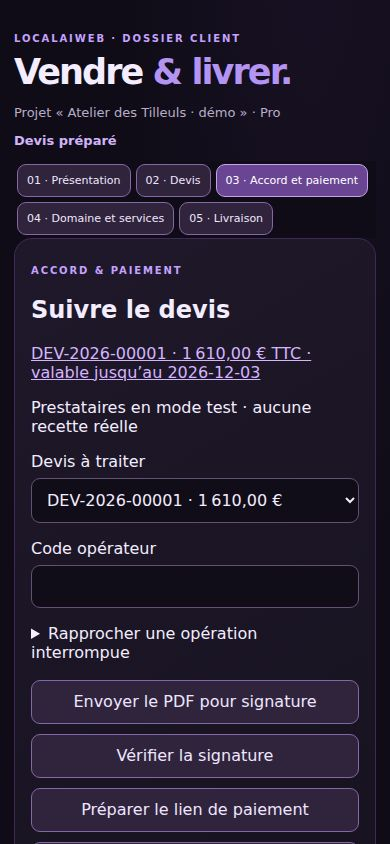
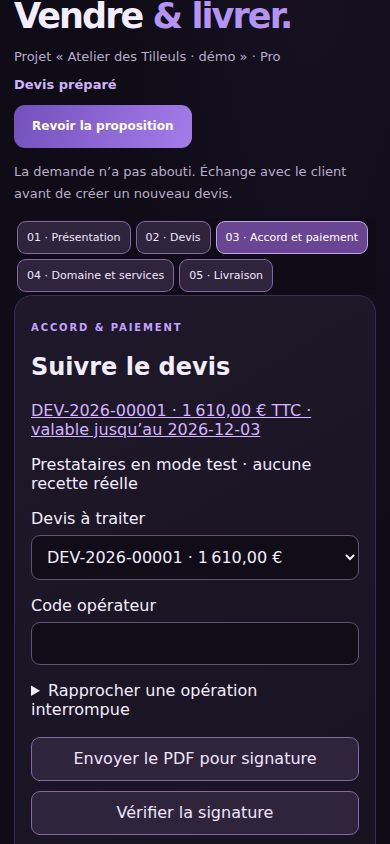
Guide the next sales step and recover interrupted pricing reads without retrying writes
Add browser tests for GET recovery, non-repeated signature sends, guided navigation and additional Studio screens. Fit public LoRA controls on mobile, preserving the isolated workspace. Run the expanded UI checks in Windows Edge.

diff --git a/local_app/web/localaiweb-sales.html b/local_app/web/localaiweb-sales.html
@@ -11,7 +11,7 @@
 </header>
 <main class="layout">
  <div class="intro"><p class="eyebrow">LOCALAIWEB · DOSSIER CLIENT</p><h1>Vendre <em>& livrer.</em></h1><p id="projectLabel">Chargement du projet…</p>
- <p id="overallStage" aria-live="polite"></p></div>
+ <p id="overallStage" aria-live="polite"></p><a id="nextSalesStep" class="primary" href="#presentation">Préparer la présentation</a><p id="nextSalesHint" class="hint"></p></div>
  <nav class="sales-steps" aria-label="Étapes du dossier"><a href="#presentation">01 · Présentation</a><a href="#quoteTitle">02 · Devis</a><a href="#agreement">03 · Accord et paiement</a><a href="#domainTitle">04 · Domaine et services</a><a href="#handover">05 · Livraison</a></nav>
  <section data-step="presentation" class="sales-desk card" aria-labelledby="deskTitle">
  <p class="eyebrow">DOSSIER DE VENTE</p><h2 id="deskTitle">Présenter la maquette privée</h2>
@@ -36,7 +36,7 @@
  <section data-step="quoteTitle" id="quoteTitle" class="card quote"><div class="heading"><div><p class="eyebrow">01 / VALORISATION</p><h2>Proposition commerciale</h2></div><label>Remise (%) <input id="discountPct" type="number" min="0" max="99" step="1" value="30"></label></div>
  <p class="hint">L’estimation provient des fichiers de ce projet. Ajuste la remise, le périmètre et les frais récurrents avant de proposer un prix. Décoche les prestations non livrées avant d’émettre une facture.</p>
  <div id="lineItems" role="group" aria-label="Prestations détectées"></div><div class="quote-total"><span>Total estimé HT</span><strong id="estimatedTotal">—</strong></div>
- <div class="fields"><label>Périmètre du devis<input id="scope" maxlength="900" placeholder="Pages, contenu, révisions et droits convenus"></label><label>Coûts récurrents et exclusions<input id="recurring" maxlength="600" placeholder="Hébergement, domaine, maintenance : montants et fréquences à confirmer"></label></div><label>Coût interne total estimé HT (€)<input type="number" min="0" step=".01" id="costHT"></label><button id="saveBudget" type="button">Enregistrer le coût interne</button><p id="margin" class="hint"></p><p id="quoteNotice" class="hint"></p><div class="ref-links"><span>Références tarifaires indicatives :</span><a href="https://onweb24.com/fr/guide/prix-site-internet" target="_blank" rel="noopener">Comparatif 2026 ↗</a><a href="https://dgtl.fr/tarif-creation-site-internet-professionnel/" target="_blank" rel="noopener">Grille tarifs ↗</a></div></section>
+ <div class="fields"><label>Périmètre du devis<input id="scope" maxlength="900" placeholder="Pages, contenu, révisions et droits convenus"></label><label>Coûts récurrents et exclusions<input id="recurring" maxlength="600" placeholder="Hébergement, domaine, maintenance : montants et fréquences à confirmer"></label></div><label>Coût interne total estimé HT (€)<input type="number" min="0" step=".01" id="costHT"></label><button id="saveBudget" type="button">Enregistrer le coût interne</button><p id="margin" class="hint"></p><p id="quoteNotice" class="hint"></p><button id="reloadEstimate" type="button">Recharger le chiffrage</button><div class="ref-links"><span>Références tarifaires indicatives :</span><a href="https://onweb24.com/fr/guide/prix-site-internet" target="_blank" rel="noopener">Comparatif 2026 ↗</a><a href="https://dgtl.fr/tarif-creation-site-internet-professionnel/" target="_blank" rel="noopener">Grille tarifs ↗</a></div></section>
  <section data-step="quoteTitle" class="card identity"><div class="heading"><div><p class="eyebrow">02 / FACTURATION</p><h2>Identités et documents</h2></div><span class="label">PDF</span></div>
  <p class="hint">Le projet génère automatiquement un chiffrage. Une facture définitive numérotée ne peut être émise qu'après validation de l'identité du client, de ton statut juridique, de la TVA et de la prestation. Une facture émise est conservée. En 2026, le PDF ne remplace pas la facturation électronique structurée lorsque celle-ci est légalement exigée ; utilise une plateforme agréée si nécessaire.</p>
  <form id="invoiceForm">
@@ -56,7 +56,7 @@
  <label>Courriel client<input id="customerEmail" type="email" placeholder="facultatif"></label>
  <label>Date réelle de prestation<input id="serviceDate" type="date" required></label><label>Délai de paiement (jours)<input id="dueDays" type="number" min="0" max="120" value="30" required></label></div>
  <label>Facturer un devis existant<select id="invoiceQuote"><option value="">Sans devis associé</option></select></label><label class="approval"><input type="checkbox" id="invoiceApproval" required><span>Je certifie que les coordonnées, le régime de TVA, les prix et la livraison des prestations sont exacts. J’autorise l’émission d’une facture définitive numérotée.</span></label>
- <div class="quote-actions"><p class="hint">Un devis peut être établi avant livraison. Il devra être accepté par le client ; il ne crée ni commande ni facture.</p><label for="quoteValidDays">Validité du devis (jours)</label><input type="number" id="quoteValidDays" min="1" max="90" value="30"><button id="issueQuote" class="primary secondary" type="button">Créer le devis PDF ↗</button><div id="quoteFeedback" class="feedback" role="status" aria-live="polite"></div></div>
+ <div class="quote-actions"><p class="hint">Un devis peut être établi avant livraison. Il devra être accepté par le client ; il ne crée ni commande ni facture.</p><label for="quoteValidDays">Validité du devis (jours)</label><input type="number" id="quoteValidDays" min="1" max="90" value="30"><button id="issueQuote" class="primary secondary" type="button" disabled>Créer le devis PDF ↗</button><div id="quoteFeedback" class="feedback" role="status" aria-live="polite"></div></div>
  <button id="issueInvoice" class="primary" type="submit">Émettre la facture PDF FORMA ↗</button>
  <div id="invoiceFeedback" class="feedback" role="status" aria-live="polite"></div></form>
  </section>

diff --git a/local_app/web/localaiweb-sales.js b/local_app/web/localaiweb-sales.js
@@ -14,9 +14,17 @@
  const selected=new Map();
  let estimate=null;
  async function api(url,body){
-  const resp=await fetch(url,body===undefined?{cache:'no-store'}:{
+  const options=body===undefined?{cache:'no-store'}:{
     method:'POST',headers:{'Content-Type':'application/json','X-LocalAI-Sales':'1'},
-    body:JSON.stringify(body)});
+    body:JSON.stringify(body)};
+  let resp;
+  try{resp=await fetch(url,options)}catch(error){
+    // Retry only a read interrupted before any HTTP response. Financial and
+    // other POST operations must always be reconciled, never blindly repeated.
+    if(body!==undefined)throw error;
+    await new Promise(resolve=>setTimeout(resolve,200));
+    resp=await fetch(url,options);
+  }
   let result={};try{result=await resp.json()}catch{}
   if(!resp.ok||result.error)throw Error(result.error||'HTTP '+resp.status);
   return result;
@@ -54,11 +62,13 @@
    update();
  };
  async function load(){
+  $('issueQuote').disabled=true;$('reloadEstimate').disabled=true;
   try{
    const [data,project]=await Promise.all([
      api('/api/web/sales/estimate?id='+encodeURIComponent(projectId)),
      api('/api/web/project?id='+encodeURIComponent(projectId))]);
    estimate=data;
+   selected.clear();
    const meta=project.project||{};
    $('projectLabel').textContent='Projet « '+(meta.name||'Sans nom')+' » · '+(meta.project_kind==='pro'?'Pro':'Libre');
    const business=meta.business||{};
@@ -74,10 +84,16 @@
    }
    update();
    $('quoteNotice').textContent=data.notice;
+   $('reloadEstimate').hidden=true;
   }catch(err){
    $('projectLabel').textContent='Impossible de charger le projet : '+err.message;
+   $('quoteNotice').textContent='Le chiffrage n’est pas chargé. Utilise « Recharger le chiffrage » pour reprendre sans modifier le dossier.';
+   $('reloadEstimate').hidden=false;
+  }finally{
+   $('issueQuote').disabled=!estimate||!selected.size;$('reloadEstimate').disabled=false;
   }
  }
+ $('reloadEstimate').onclick=()=>load();
  function showStep(){
    const links=[...document.querySelectorAll('.sales-steps a')];
    const active=links.find(a=>a.hash===location.hash)||links[0];
@@ -96,6 +112,20 @@
  function renderDesk(data){
    desk=data;$('salesState').textContent=titles[data.stage]||({accepted:'Accord vérifié',payment_pending:'Paiement en attente',paid:'Règlement vérifié',published:'Publication enregistrée',handover_complete:'Remise vérifiée',domain_pending:'Commande de domaine en cours',domain_completed:'Domaine enregistré'}[data.stage]||data.stage);
    $('overallStage').textContent=$('salesState').textContent;
+   const proposal=data.quotes.at(-1);
+   const signature=(data.signatures||[]).find(s=>s.quote===proposal?.number);
+   const payment=data.orders.find(o=>o.quote===proposal?.number);
+   let next=['#presentation','Préparer la présentation','Commence par les pages de la maquette et les informations vérifiées du prospect.'];
+   if(data.stage==='presentation_ready')next=['#presentation','Préparer l’appel','Vérifie le numéro professionnel puis présente la maquette.'];
+   if(data.stage==='contacted')next=['#quoteTitle','Préparer le devis','Retiens avec le client le périmètre et les coûts récurrents.'];
+   if(proposal)next=['#agreement','Faire accepter le devis','Vérifie le PDF et le destinataire avant tout envoi.'];
+   if(signature?.state==='pending'||signature?.state==='sent')next=['#agreement','Suivre la signature','Consulte le prestataire pour actualiser la demande.'];
+   if(['declined','expired','quote_expired'].includes(signature?.state))next=['#quoteTitle','Revoir la proposition','La demande n’a pas abouti. Échange avec le client avant de créer un nouveau devis.'];
+   if(payment)next=['#agreement','Suivre le règlement','Seule la confirmation du prestataire valide le paiement.'];
+   if(payment?.payment==='paid')next=['#domainTitle','Préparer le domaine et les services','Vérifie la titularité, les coûts et les besoins réels du site avant toute activation.'];
+   if(data.stage==='published')next=['#handover','Vérifier et livrer le site','Contrôle le domaine, HTTPS et les fonctions métier avant la remise.'];
+   if(data.stage==='handover_complete')next=['#handover','Consulter la livraison','Le dossier conserve la preuve de remise et les documents.'];
+   $('nextSalesStep').href=next[0];$('nextSalesStep').textContent=next[1];$('nextSalesHint').textContent=next[2];
    $('costHT').value=data.cost_ht??'';update();
    if(data.client_id)$('clientRecord').href=studioOrigin+'/localaiweb/clients?client='+encodeURIComponent(data.client_id);
    if(data.delivery)$('releaseStatus').textContent='Remise vérifiée : '+data.delivery.url;

diff --git a/local_app/web/studio-natural-vision.css b/local_app/web/studio-natural-vision.css
@@ -14,3 +14,14 @@ body.is-landing .welcome{padding-top:clamp(45px,10vh,110px)}
 .studio-navigation #studioAdOpen.active{background:#214747;border-color:#4b9e98}
 #creationModeGuide{font-size:11px}
 @media(max-width:700px){.welcome-visual p{font-size:12px;padding:0 13px}.welcome-visual h1{font-size:34px}}
+/* Public settings must fit their scrollable dialog, including native inputs. */
+body:not(.nsfw-active) #generationSettings .settings-accordions{grid-template-columns:minmax(0,1fr)}
+body:not(.nsfw-active) #generationSettings :is(.settings-accordion,.settings-accordion-body,.lora-panel){min-width:0;max-width:100%}
+body:not(.nsfw-active) #generationSettings :is(input,select,textarea,.lora-upload){min-width:0;max-width:100%;box-sizing:border-box}
+@media(max-width:700px){
+ body:not(.nsfw-active) #generationSettings .settings-grid{grid-template-columns:repeat(2,minmax(0,1fr))}
+ body:not(.nsfw-active) #generationSettings .settings-head>div{min-width:0;overflow-wrap:anywhere}
+ body:not(.nsfw-active) #generationSettings .lora-head{flex-wrap:wrap}
+ body:not(.nsfw-active) #generationSettings .lora-head>div{flex:1 1 180px;min-width:0}
+ body:not(.nsfw-active) #generationSettings .lora-upload{white-space:normal;overflow-wrap:anywhere}
+}

diff --git a/local_app/web/localaiweb-sales.css b/local_app/web/localaiweb-sales.css
@@ -21,4 +21,5 @@
 #signatureHistory details{padding:12px 0;border-top:1px solid #635174}
 #signatureHistory summary{cursor:pointer;overflow-wrap:anywhere}
 #signatureHistory p{color:var(--muted);font-size:.9em}
+.intro .primary{display:inline-flex;align-items:center;min-height:44px;text-decoration:none}
 @media(max-width:720px){.sales-links>button{flex:1 1 100%;min-height:44px}.card :is(input:not([type=checkbox]),select,textarea){font-size:16px}}

diff --git a/docs/qa-finalisation/VALIDATION.md b/docs/qa-finalisation/VALIDATION.md
@@ -11,17 +11,18 @@ Branche : `codex/studio-297-sales-autopilot`, empilée sur la PR #53 au commit `
 - Le mandat par défaut est relu depuis son emplacement privé après redémarrage, sans dépendre d'une variable en mémoire. Aucun achat dans ce test.
 - Le premier workflow Windows de cette passe a révélé une écriture du mandat dans l'encodage Windows par défaut. Les noms accentués échouaient à la relecture UTF-8. L'écriture et la lecture utilisent désormais explicitement UTF-8 ; le test du mandat contient un nom accentué.
 - Accroches complémentaires raccourcies, questions métier naturelles, sources et correction manuelle conservées. Contrôles de l'écran accord/paiement harmonisés, champs lisibles sur mobile.
+- Réglages LoRA publics adaptés aux petits écrans : grille pouvant rétrécir, champs bornés, commandes repliables. Les règles excluent explicitement le mode NSFW ; le scénario supplémentaire vérifie aussi les contrôles coupés par un conteneur.
 - Version source alignée sur `3.1.0`. Les métadonnées Windows restent écrites par le workflow. ZIP contrôlé pour les trois fichiers requis, contenus non vides et en-tête MZ de l'EXE. Empreinte SHA-256 désormais jointe à l'artefact de PR.
 - Le parcours Windows Edge du Studio est aussi exécuté sur la branche commerciale, après inclusion des changements de la PR #53. Release toujours limitée à `main`.
 
 ## Vérifications locales
 
 - Python : 284 tests exécutés, **283 réussis, 1 ignoré** (PowerShell Windows). Journal : `python-tests.log`.
-- JavaScript : 44 fichiers vérifiés par `node --check`, aucun échec. 9 tests/sous-programmes Node réussis (qualité adaptative, actions de prompts, routage d'intention, masque et sélection de workflow).
+- JavaScript : 45 fichiers vérifiés par `node --check`, aucun échec. 9 tests/sous-programmes Node réussis (qualité adaptative, actions de prompts, routage d'intention, masque et sélection de workflow).
 - Chromium Linux 153 : parcours Pro/Libre, génération par adaptateur déterministe, suggestion de vente, aperçu hostile, inspecteur, feuille sourcée/PDF, rappel, devis avant publication, signature simulée envoyée → attente → refus, puis rechargement du dossier sans accord. Le refus est conservé et consultable.
 - Navigateur : écrans commerciaux aux formats 390×844, 1365×768, 1920×1080, 3840×2160 ; vérification de débordement. Accord/paiement contrôlé séparément en mobile.
 - Studio : accueil aux cinq dimensions, animation active/arrêtée, préférence persistante, commandes Vision/I2V/fichier, navigation clavier, filtres Leaflet avec fiches contrôlées, fiche mobile/zoom et contrat de limite des POI Google. Trace dans `browser-report.json`. Cadence Linux sans GPU : environ 35,6 rappels/s en UHD ; aucune promesse de performance sur RTX 3060.
-- Inspection visuelle des captures mobile et desktop, dont accueil UHD et nouvel écran accord/paiement.
+- Inspection visuelle des captures mobile et desktop, dont accueil UHD et nouvel écran accord/paiement. Scénario reproductible `scripts/review_studio_extra.cjs` : contrôle complémentaire des projets, CRM, marques, réglages LoRA et bibliothèque publique vide aux quatre dimensions ; ce contrôle ne certifie pas tous les contenus possibles de ces écrans.
 
 ## Matrice de validation
 
